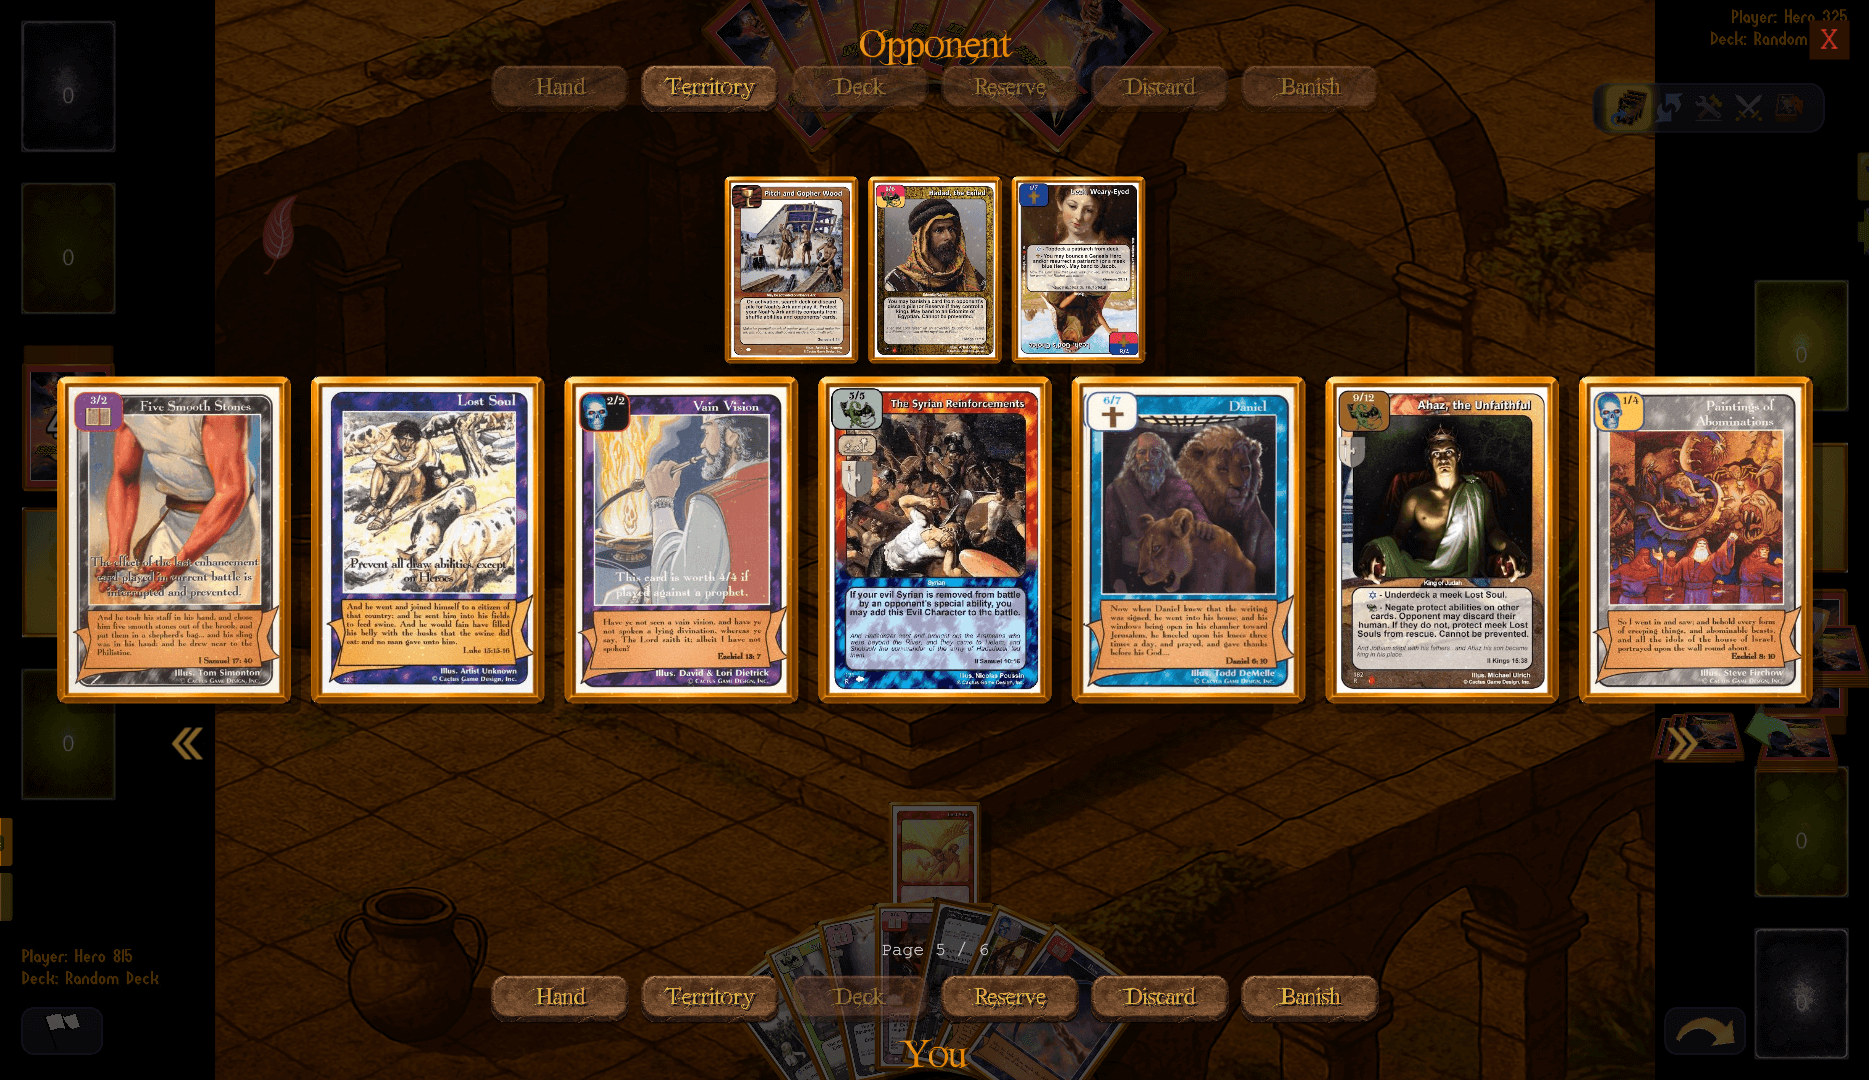
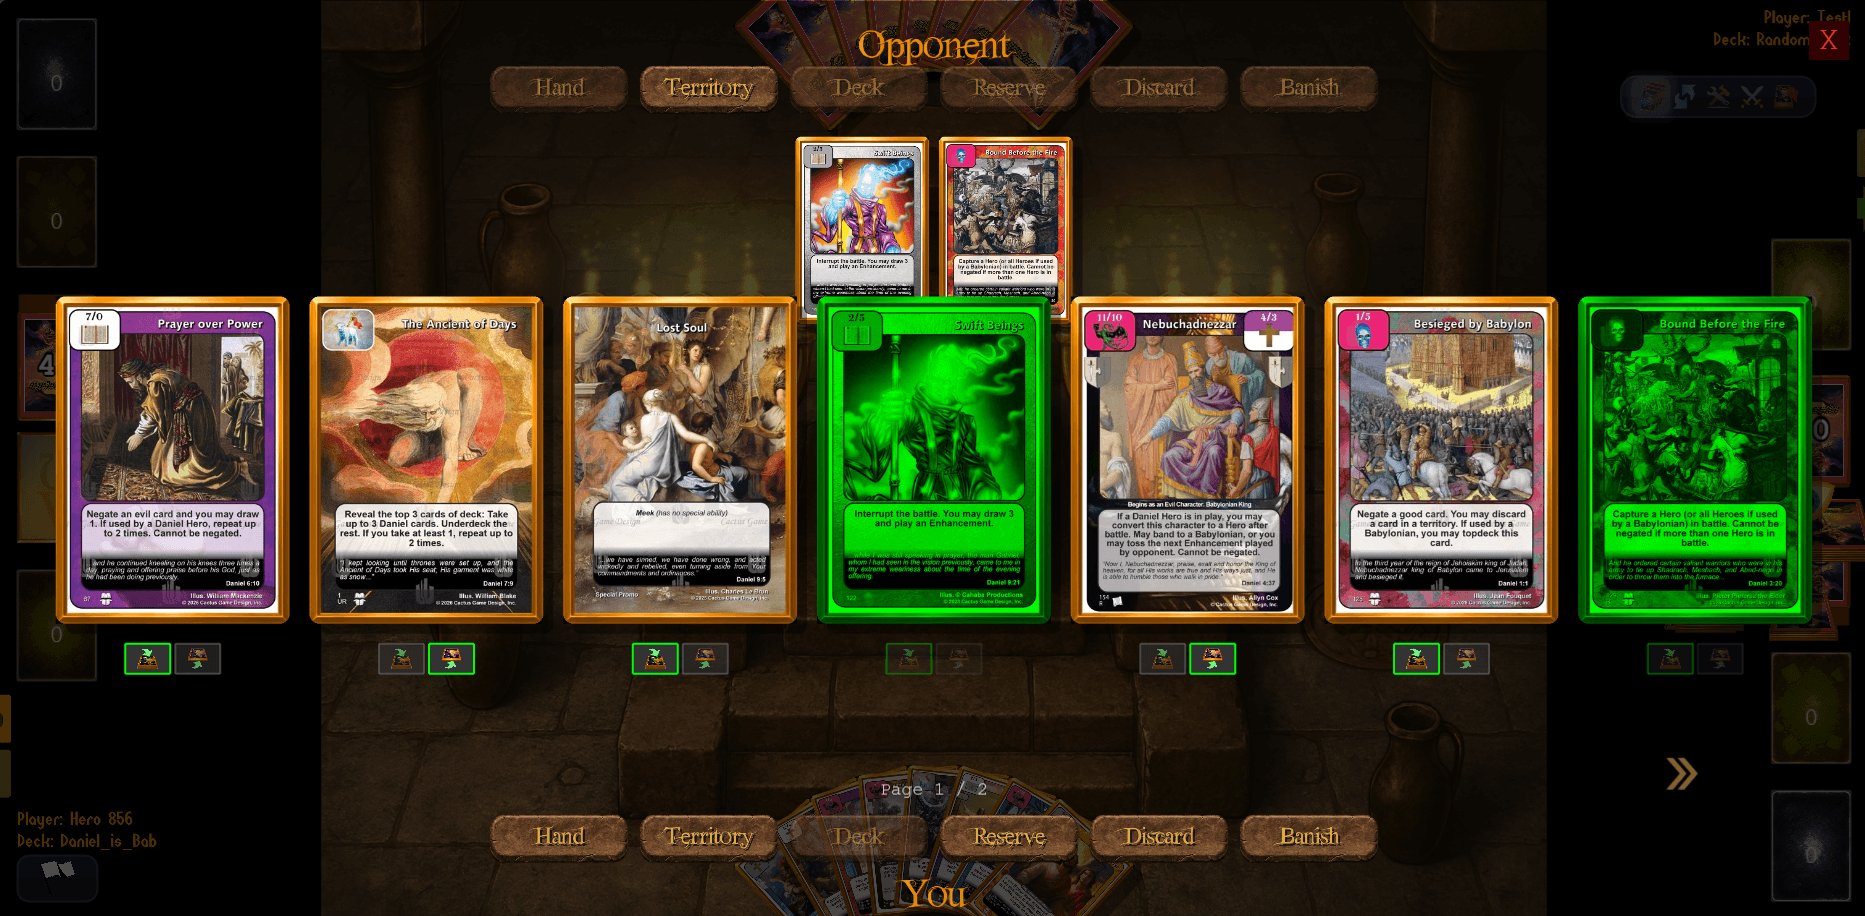
Topdeck/Underdeck buttons added for Look and Reveal + Online Help updated

diff --git a/Redemption Coliseum/client/src/scenes/SelectionDialogScene.ts b/Redemption Coliseum/client/src/scenes/SelectionDialogScene.ts
@@ -63,6 +63,7 @@ export interface SelectionDialogData {
 export class SelectionDialogScene extends Phaser.Scene {
   private cardUIs: CardUI[] = [];
   private selectedCards = new Set<string>();
+  private toggleContainers: Phaser.GameObjects.Container[] = []; // ✨ NEU: Tracking für Toggles
   private cardPositions = new Map<string, "top" | "bottom">(); // ✨ NEU
   private room!: TypedRoom;
   private dialogData!: SelectionDialogData;
@@ -110,6 +111,9 @@ export class SelectionDialogScene extends Phaser.Scene {
     // ✨ FIX: Alte Referenzen löschen. Da die Szene gestoppt wurde, hat Phaser die Objekte bereits zerstört.
     this.cardUIs = [];
     this.actionButtons = [];
+    this.toggleContainers.forEach((t) => t.destroy()); // ✨ NEU: Cleanup
+    this.toggleContainers = [];
+
     if (this.selectedCardsContainer)
       this.selectedCardsContainer.removeAll(true);
 
@@ -161,7 +165,6 @@ export class SelectionDialogScene extends Phaser.Scene {
         this.soundManager.playSound("UI_TOGGLE");
         this.closeDialog();
       });
-
     }
 
     // 5. Aktions-Buttons
@@ -178,7 +181,7 @@ export class SelectionDialogScene extends Phaser.Scene {
     // um eine Überlappung mit den Karten zu vermeiden.
     // Wir berechnen die Y-Position basierend auf der Kartenhöhe, um sicherzustellen, dass sie immer darunter liegen.
     const cardHeight = (this.scale.width / 8) * 1.4;
-    const buttonY = this.scale.height / 2 + cardHeight / 2 + 40;
+    const buttonY = this.scale.height / 2 + cardHeight / 2 + 150; // ✨ FIX: Tiefer gesetzt (von 100 auf 150)
     const buttonXOffset = this.scale.width * 0.4;
 
     this.prevButton = this.add
@@ -290,6 +293,7 @@ export class SelectionDialogScene extends Phaser.Scene {
 
     // --- Schritt 1: Alte Karten rausfliegen lassen ---
     const oldCards = [...this.cardUIs];
+    const oldToggles = [...this.toggleContainers]; // ✨ NEU
     const staggerTime = 50; // ms Verzögerung pro Karte für den Ziehharmonika-Effekt
     const animDuration = 500; // ✨ NEU: Konstante für die Dauer
 
@@ -306,14 +310,17 @@ export class SelectionDialogScene extends Phaser.Scene {
             ? index * staggerTime
             : (oldCards.length - 1 - index) * staggerTime;
 
+        const toggle = oldToggles[index]; // ✨ NEU
+
         const tween = this.tweens.add({
-          targets: cardUI,
+          targets: toggle ? [cardUI, toggle] : cardUI, // ✨ NEU: Toggle mit animieren
           x: cardUI.x + offset,
           duration: animDuration,
           delay: delay, // ✨ NEU: Individuelle Verzögerung
           ease: "Cubic.easeIn", // ✨ FIX: Beschleunigen beim Rausfliegen
           onComplete: () => {
             cardUI.destroy();
+            toggle?.destroy(); // ✨ NEU: Toggle zerstören
           },
         });
         if (startFast) {
@@ -327,6 +334,7 @@ export class SelectionDialogScene extends Phaser.Scene {
 
     // --- Schritt 2: Neue Karten (ggf. verzögert) einfliegen lassen ---
     this.cardUIs = []; // Liste für die neuen Karten leeren
+    this.toggleContainers = []; // ✨ NEU: Liste für Toggles leeren
 
     // Startverzögerung für die neuen Karten (damit die alten schon KOMPLETT weg sind)
     // ✨ FIX: Dynamische Berechnung für sequentiellen Ablauf (kein Überlappen)
@@ -374,18 +382,21 @@ export class SelectionDialogScene extends Phaser.Scene {
       // Show top/bottom position toggles whenever the acting player looks at/reveals
       // cards from the deck.
       const isDeckSource = this.dialogData.fromZone === "deck";
-      const isLookOrReveal = this.dialogData.actionType === "look" || this.dialogData.actionType === "reveal";
-      const showToggles = this.dialogData.isMyAction && isDeckSource && isLookOrReveal;
-
+      const isLookOrReveal =
+        this.dialogData.actionType === "look" ||
+        this.dialogData.actionType === "reveal";
+      const showToggles =
+        this.dialogData.isMyAction && isDeckSource && isLookOrReveal;
 
       // ✨ NEU: Position-Toggle unter der Karte erstellen
       const toggle = this.createPositionToggle(
-        targetX,
+        initialX,
         centerY + cardHeight / 2 + 35,
         cardData.id,
       );
       toggle.setVisible(showToggles);
       cardUI.setData("positionToggle", toggle); // ✨ NEU: Verknüpfung speichern
+      this.toggleContainers.push(toggle); // ✨ NEU: In Tracking-Array aufnehmen
       this.add.existing(toggle);
       // Initialzustand setzen (falls Karte bereits auf anderer Seite gewählt war)
       this.setToggleInteractivity(
@@ -466,8 +477,7 @@ export class SelectionDialogScene extends Phaser.Scene {
         .setStrokeStyle(2, 0x666666);
 
       // ✨ KORREKTUR: Richtige Asset-Keys verwenden
-      const iconKey =
-        type === "top" ? "icon_from_top_of_pile" : "icon_from_bottom_of_pile";
+      const iconKey = type === "top" ? "icon_topdeck" : "icon_underdeck";
       const icon = this.add.image(0, 0, iconKey);
 
       icon.setDisplaySize(20, 20);
@@ -680,7 +690,6 @@ export class SelectionDialogScene extends Phaser.Scene {
           this.closeDialog(true);
         }
       });
-
 
       this.actionButtons.push(container);
       startX += buttonWidth + spacing;

diff --git a/Redemption Coliseum/client/public/help.html b/Redemption Coliseum/client/public/help.html
@@ -207,6 +207,14 @@
       background: url("./assets/ui/icons/icon_from_bottom_of_pile.png") no-repeat left center / 2.5rem auto;
     }
 
+    .bullet-topdeck {
+      background: url("./assets/ui/icons/icon_topdeck.png") no-repeat left center / 2.5rem auto;
+    }
+
+    .bullet-underdeck {
+      background: url("./assets/ui/icons/icon_underdeck.png") no-repeat left center / 2.5rem auto;
+    }
+
     .list-label {
       font-family: "FairyDustB", serif;
       font-size: 1.4rem;
@@ -237,14 +245,16 @@
       left: 0;
       width: 280px;
       height: 100%;
-      background: rgba(255, 255, 255, 0.5); /* Semitransparent, passend zum Stil */
-      border-right: 1px solid rgba(0,0,0,0.2);
-      transform: translateX(-280px); /* Initial versteckt */
+      background: rgba(255, 255, 255, 0.5);
+      /* Semitransparent, passend zum Stil */
+      border-right: 1px solid rgba(0, 0, 0, 0.2);
+      transform: translateX(-280px);
+      /* Initial versteckt */
       transition: transform 0.3s ease-in-out;
       z-index: 10000;
       overflow-y: auto;
       padding-top: 40px;
-      box-shadow: 2px 0 10px rgba(0,0,0,0.3);
+      box-shadow: 2px 0 10px rgba(0, 0, 0, 0.3);
     }
 
     #sidebar.open {
@@ -257,7 +267,7 @@
       left: 15px;
       z-index: 10001;
       background: rgba(255, 255, 255, 0.6);
-      border: 1px solid rgba(0,0,0,0.4);
+      border: 1px solid rgba(0, 0, 0, 0.4);
       border-radius: 4px;
       padding: 5px 12px;
       cursor: pointer;
@@ -266,8 +276,16 @@
       color: #333;
     }
 
-    #sidebar nav ul { list-style: none; padding: 0; margin: 0; }
-    #sidebar nav ul li { border-bottom: 1px solid rgba(0,0,0,0.05); }
+    #sidebar nav ul {
+      list-style: none;
+      padding: 0;
+      margin: 0;
+    }
+
+    #sidebar nav ul li {
+      border-bottom: 1px solid rgba(0, 0, 0, 0.05);
+    }
+
     #sidebar nav ul li a {
       display: block;
       padding: 4px 20px;
@@ -276,15 +294,27 @@
       font-family: "FairyDustB", system-ui, sans-serif;
       font-size: 1.5rem;
     }
+
     #sidebar nav ul li ul li a {
       padding-left: 40px;
       font-family: system-ui, sans-serif;
       font-size: 0.95rem;
     }
-    #sidebar nav ul li a:hover { background: rgba(0,0,0,0.1); }
-    .menu-header { text-align: center; font-family: "FairyDustB"; font-size: 2rem; margin-bottom: 1rem; color: #444; }
+
+    #sidebar nav ul li a:hover {
+      background: rgba(0, 0, 0, 0.1);
+    }
+
+    .menu-header {
+      text-align: center;
+      font-family: "FairyDustB";
+      font-size: 2rem;
+      margin-bottom: 1rem;
+      color: #444;
+    }
 
     @media (max-width: 700px) {
+
       .row,
       .row.alt {
         flex-direction: column;
@@ -804,6 +834,14 @@
           When you are done select the appropriate zone or pile of you (bottom button row) or your opponent (top button
           row) to move the cards there. (At the moment cards moved to hands, or any piles are not displayed but can be
           looked up inside the Chat and Log panel.)</br>
+          For actions Look and Reveal every card which is not selected has two active buttons below it.
+          <ul class="custom-bullets">
+            <li class="bullet-topdeck">Topdeck</li>
+            <li class="bullet-underdeck">Underdeck</li>
+          </ul>
+          With those you can choose to either topdeck that card or to underdeck it after looking at it or revealing it.</br>
+          Default is that topdeck button or underdeck button is preselected for all cards depending on whether you chose
+          to activate the action from the top of a pile or from the bottom of a pile.</br>
           Click on the red cross to close the dialog.
         </p>
       </div>

diff --git a/Redemption Coliseum/client/src/scenes/GameLoadingScene.ts b/Redemption Coliseum/client/src/scenes/GameLoadingScene.ts
@@ -60,7 +60,10 @@ export class GameLoadingScene extends BaseLoadingScene {
       "assets/ui/buttons/Button_Help_Copilot_20260216_130131_small.png",
     );
     // ✨ NEU: Concede Button
-    this.load.image("button_concede", "assets/ui/buttons/white_flag_small_compressed.png");
+    this.load.image(
+      "button_concede",
+      "assets/ui/buttons/white_flag_small_compressed.png",
+    );
     this.load.image("arrow_left", "assets/ui/buttons/arrow-left_small.png");
     this.load.image("arrow_right", "assets/ui/buttons/arrow-right_small.png");
     // Parchment button is already loaded in LobbyScene, but we load it here again for safety
@@ -71,7 +74,6 @@ export class GameLoadingScene extends BaseLoadingScene {
     // ✨ NEU: Scroll-Hintergrund für Settings
     this.load.image("scroll_bg", "assets/ui/paper-8527340_optimised.png");
     this.load.image("chat_bg", "assets/ui/paper-548643_small_optimised.jpg"); // ✨ NEU: Chat-Hintergrund
-    // ✨ NEU: Paginierungs-Pfeile
     this.load.image(
       "icon_from_top_of_pile",
       "assets/ui/icons/icon_from_top_of_pile.png",
@@ -80,6 +82,8 @@ export class GameLoadingScene extends BaseLoadingScene {
       "icon_from_bottom_of_pile",
       "assets/ui/icons/icon_from_bottom_of_pile.png",
     );
+    this.load.image("icon_topdeck", "assets/ui/icons/icon_topdeck.png");
+    this.load.image("icon_underdeck", "assets/ui/icons/icon_underdeck.png");
 
     // === Phasen Icons ===
     this.load.image("icon_preparation", "assets/ui/icons/icon_preparation.png");
